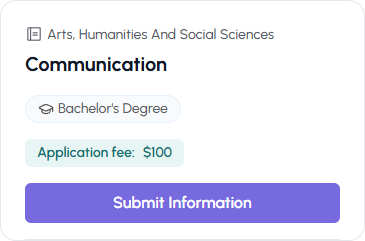
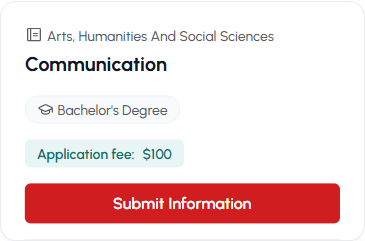
add

diff --git a/Playwright/tests/advisor/guest/advisor_companydetails.spec.js b/Playwright/tests/advisor/guest/advisor_companydetails.spec.js
@@ -1,0 +1,18 @@
+import { test, expect } from "@playwright/test";
+import{login} from"./Helper/advisor_login.js";
+
+test("Advisor company details page", async ({ page }) => {
+  await login(page);
+   await page.goto('https://advisebridge.com/advisor/company-details');
+
+  await expect(page).toHaveURL('https://advisebridge.com/advisor/company-details');
+
+ 
+  await expect(page.getByText('Company Name')).toBeVisible();
+  await expect(page.getByText('Owner Name')).toBeVisible();
+  await expect(page.getByText('Established')).toBeVisible();
+  await expect(page.getByText('Country')).toBeVisible();
+  await expect(page.getByText('Address')).toBeVisible();
+  await expect(page.getByText('Phone')).toBeVisible();
+  await expect(page.getByText('Mobile')).toBeVisible();
+});

diff --git a/Playwright/tests/advisor/guest/advisor_login.spec.js b/Playwright/tests/advisor/guest/advisor_login.spec.js
@@ -1,6 +1,7 @@
 import { expect, test } from "@playwright/test";
 
-test("Advisor Login Page", async ({ page }) => {
+test("Advisor Login Page", async ({ page }) => 
+    {
   await page.goto("https://advisebridge.com/login?tab=advisor");
 
   await page.click("text=Advisor");
@@ -15,5 +16,5 @@ test("Advisor Login Page", async ({ page }) => {
   // Wait for the element to be visible first
   await page.locator(".fi-avatar").first().waitFor({
     state: "visible",
-  });
-})
+  })
+});

diff --git a/Playwright/tests/advisor/guest/Helper/advisor_login.js b/Playwright/tests/advisor/guest/Helper/advisor_login.js
@@ -1,0 +1,12 @@
+import { test, expect } from "@playwright/test";
+
+export async function login(page) {
+  
+
+  await page.goto("https://advisebridge.com/login?tab=advisor");
+  await page.fill("#email", "chalaunrrabina@gmail.com");
+  await page.fill("#password", "bestNepal@123");
+  await page.click("//button[normalize-space()='Log in as advisor']");
+
+  await page.waitForURL("https://advisebridge.com/advisor");
+};
